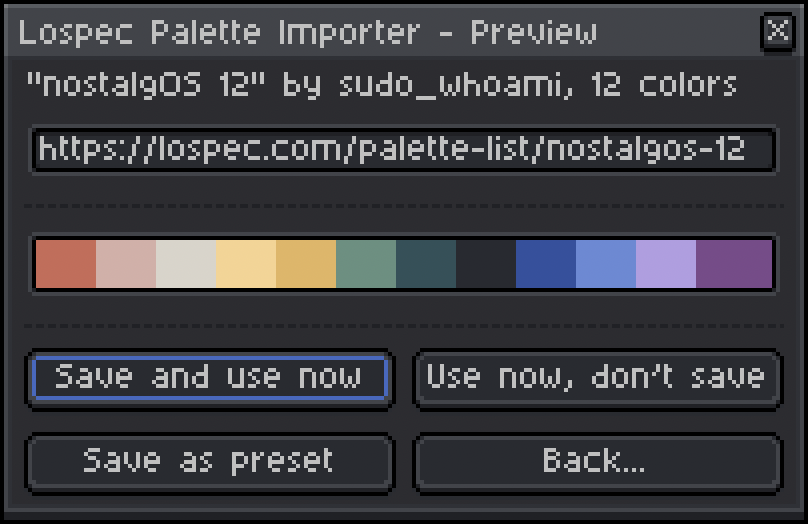
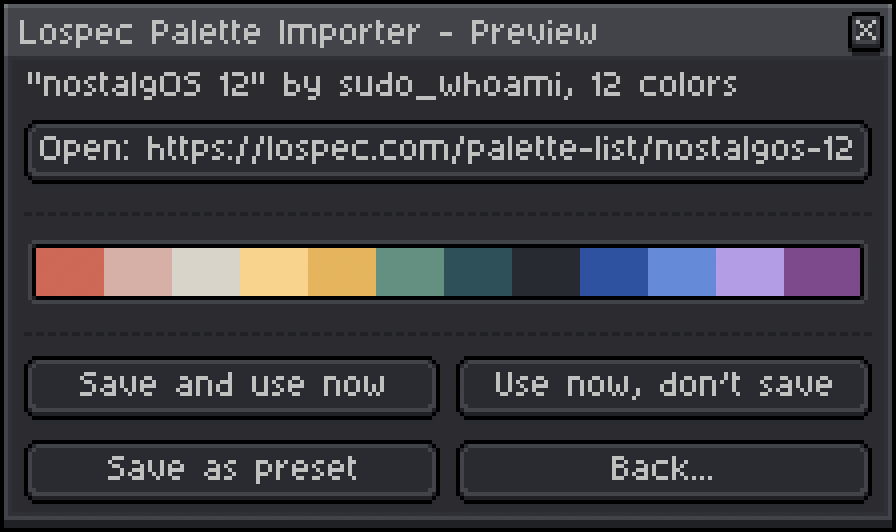
docs: update README.md changelog, add updated screenshots

Changed region(s): [[0.0, 0.0305, 1.0, 0.9771], [0.0, 0.0305, 0.7426, 0.0916]]

diff --git a/README.md b/README.md
@@ -5,9 +5,18 @@
 
 This [Aseprite](https://aseprite.org) extension allows you to use and save color palettes from [Lospec](https://lospec.com). Simply enter the name of the Lospec palette you want to import.
 
-*current release: [v1.6.0](https://sudo-whoami.itch.io/lospec-palette-importer)*
+*current release: [v1.6.1](https://sudo-whoami.itch.io/lospec-palette-importer)*
 
 ## Latest Changes
+**Version 1.6.1**
+- Adds the ability to open Lospec.com palette links from the palette preview window
+- Backend improvements: Huge refactor of the extension to break it up into smaller submodules for easier maintainability in the future
+
+>[!INFO]
+>Because of the changes to the extension's internal structure, you will need to approve access for each submodule when it attempts to reach out to Lospec.com, open Lospec links, or write to a file on your system (i.e. when saving a palette).
+>
+>![security dialog](./screenshots/security%20api.png)
+
 **Version 1.6.0**
 - Lospec Palette Importer will now offer a list of suggested palette names if it can't find an exact match
 
@@ -66,11 +75,22 @@ This extension has been tested on both Windows and Mac OS (specifically, Windows
 It is intended to run on Aseprite version 1.3.7 or later and requires API version 28 (as long as you have the latest version of Aseprite, you should be fine!)
 
 ## Permissions
-When you run this plugin for the first time, you'll be aked to grant some permissions. This extension uses `curl` under the hood to get data from Lospec and will need your permission to execute that command. Addtionally, this extension will need your permission to write files if you intend to save any imported palettes.
+When you run this plugin for the first time, you'll be aked to grant some permissions. This extension uses `curl` under the hood to get data from Lospec and will need your permission to execute that command.
 
-When prompted, select the "Give full trust to this script" checkbox and then click "Give Script Full Access" (you'll only need to do this once)
+When prompted, select the "Give full trust to this script" checkbox and then click "Give Script Full Access":
 
-![security dialog](./screenshots/security%20dialog.png)
+![security dialog 2](./screenshots/security%20api.png)
+
+Addtionally, this extension will need your permission to write files if you intend to save any imported palettes:
+
+![security dialog 3](./screenshots/security%20storage.png)
+
+And one last time when you open external Lospec.com palette list links:
+
+![security dialog 3](./screenshots/security%20platform.png)
+
+>[!TIP]
+>You'll only need to grant these permissions to Lospec Palette Importer once
 
 ## Features & Usage
 If you know the name of the palette you want to import, simply enter it and click the **Import** button. If you're looking for inspiration, you can also check out the current **Daily** palette or a **Random** palette!
